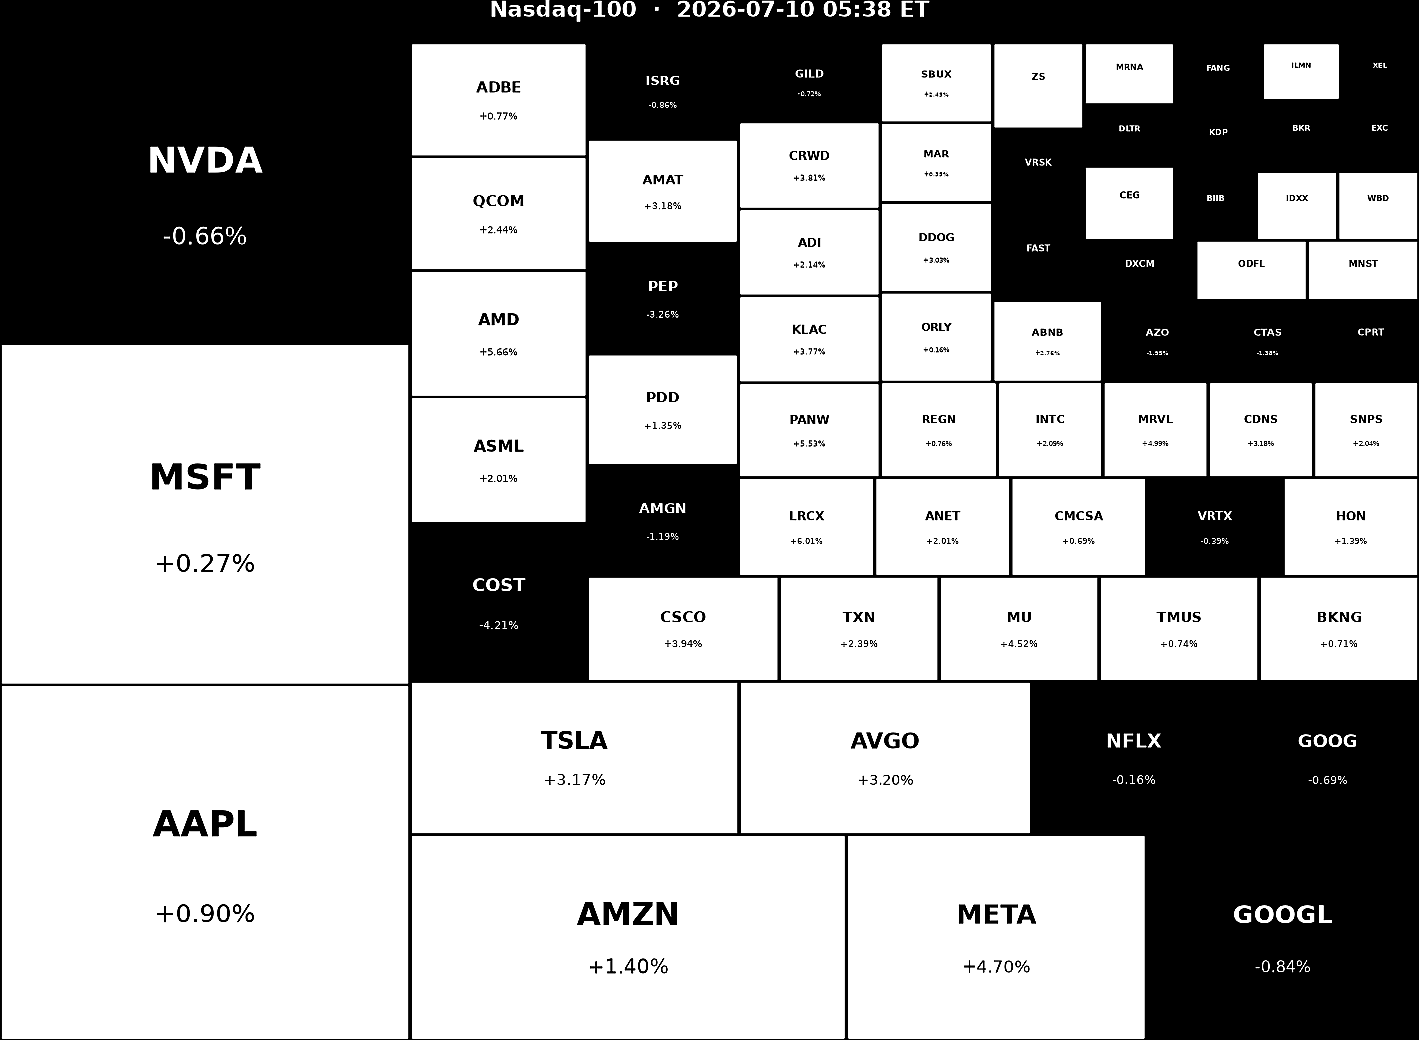
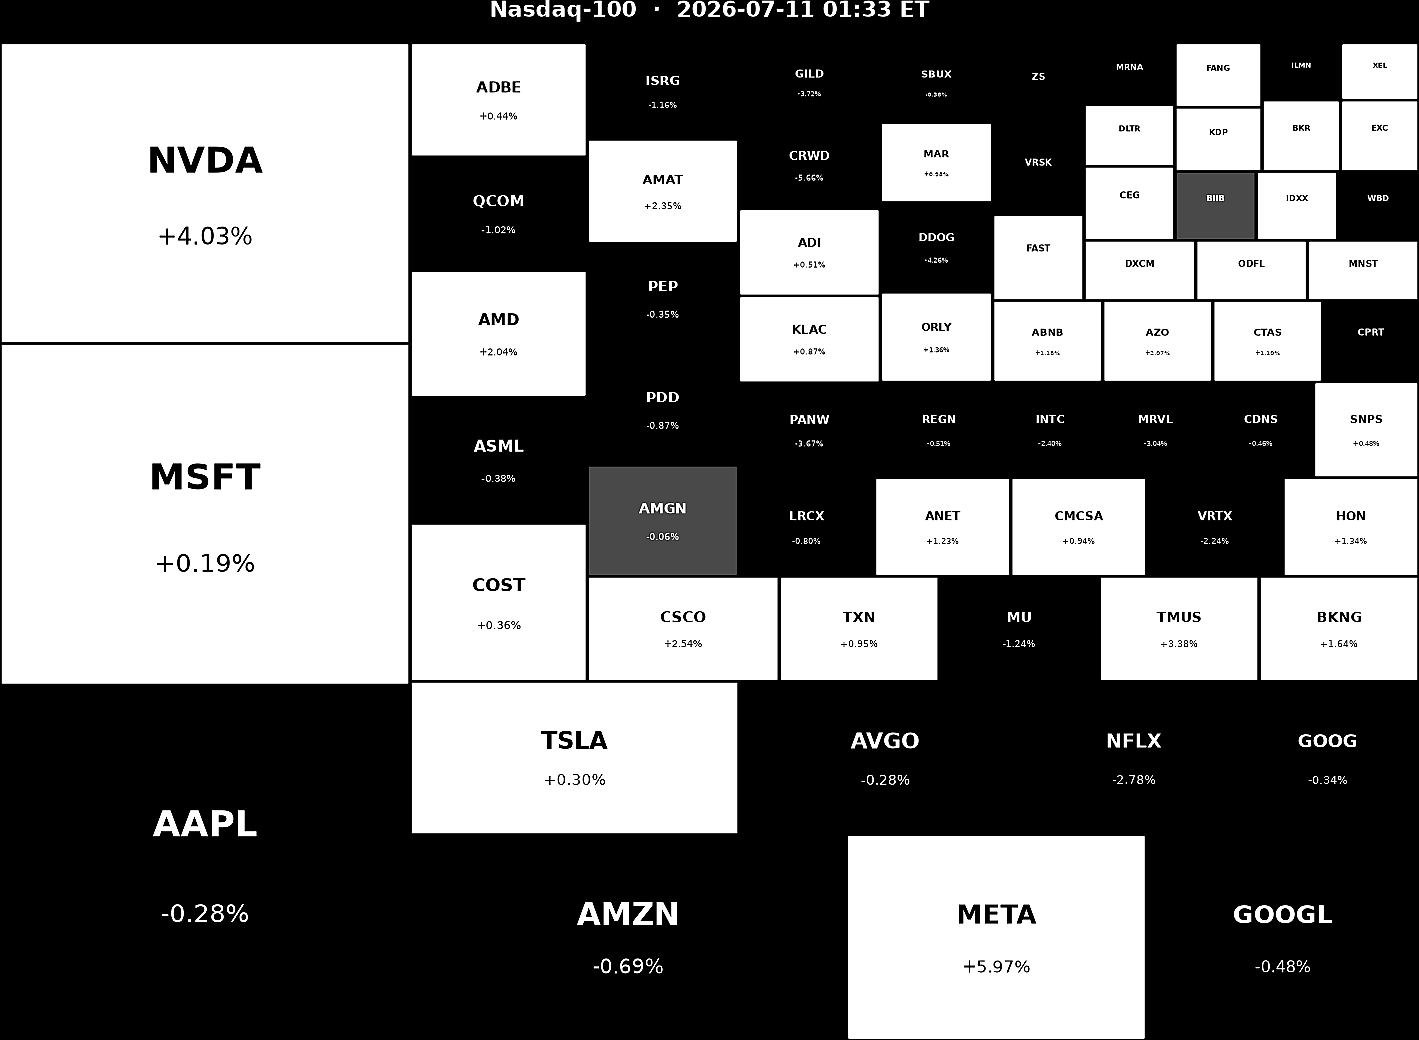
chore: update heatmap 2026-07-11 06:33 UTC

diff --git a/docs/index.html b/docs/index.html
@@ -14,7 +14,7 @@
 </style>
 </head>
 <body>
-  <img src="heatmap.png?t=1783679921" alt="Nasdaq 100 Heatmap">
-  <p>更新：2026-07-10 05:38 ET · 数据来源：Yahoo Finance</p>
+  <img src="heatmap.png?t=1783751581" alt="Nasdaq 100 Heatmap">
+  <p>更新：2026-07-11 01:33 ET · 数据来源：Yahoo Finance</p>
 </body>
 </html>
